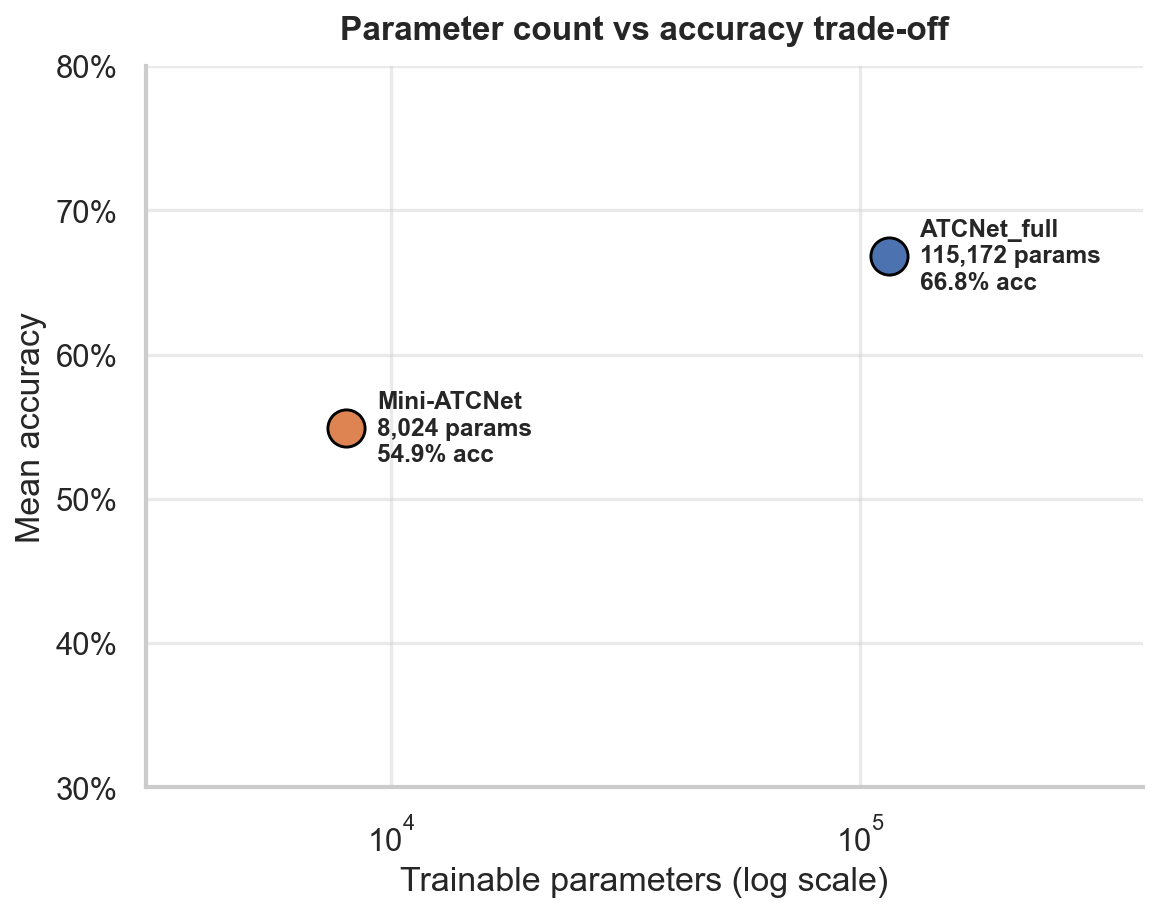
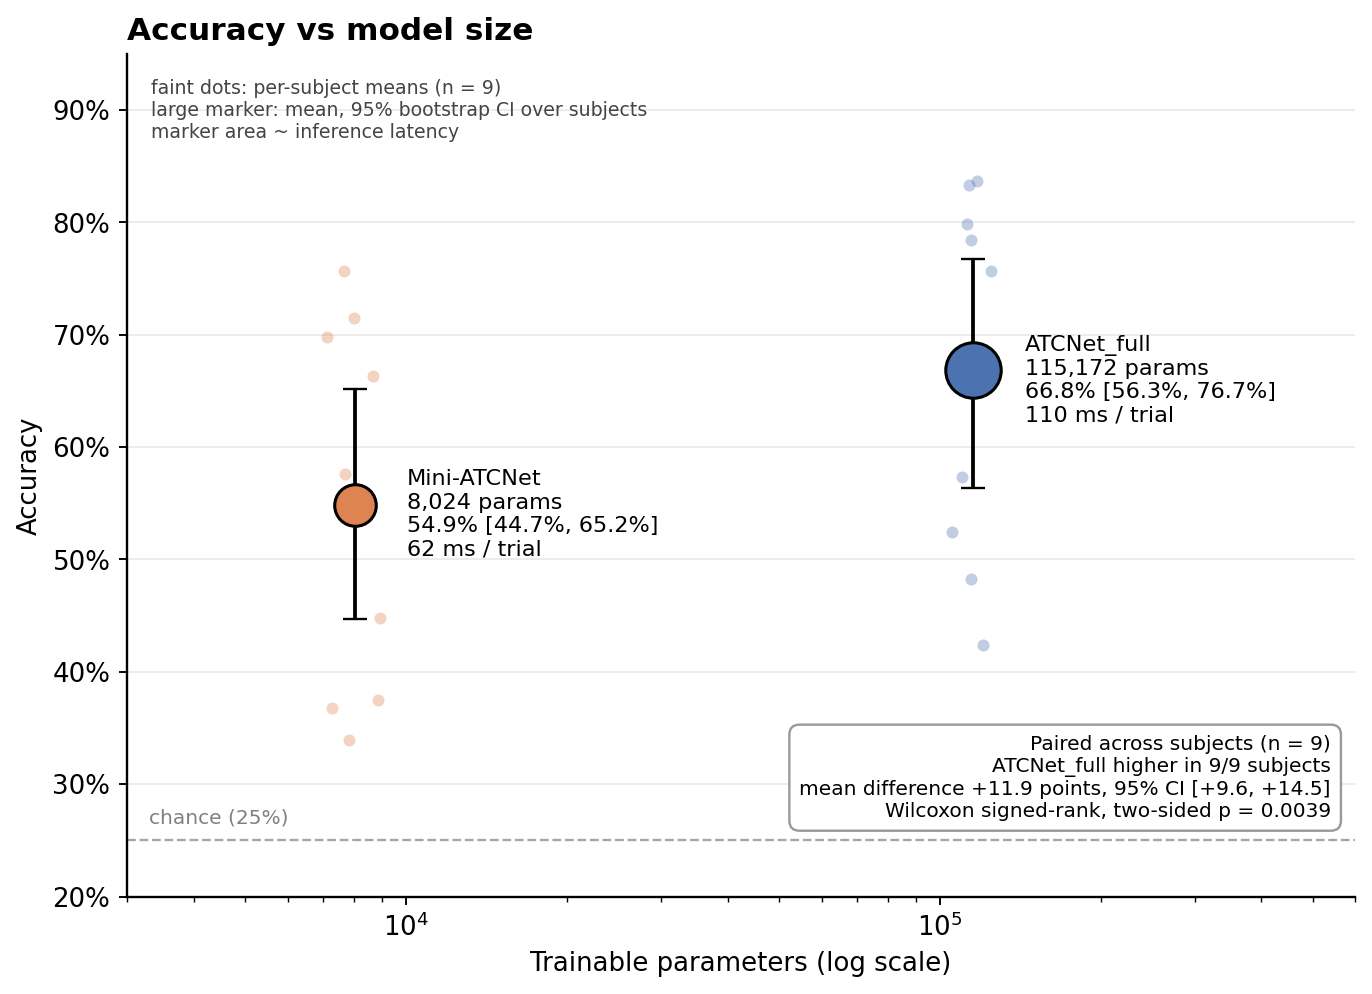
README: protocol versions, statistics, updated Figure 4

diff --git a/README.md b/README.md
@@ -90,9 +90,10 @@ dependent on a separate compression algorithm's own behavior.
 All experiments use the BCI Competition IV-2a dataset (Tangermann et al., 2012), comprising EEG
 recordings from nine subjects performing four classes of motor imagery: left hand, right hand,
 foot, and tongue. Each subject contributed 288 trials in the labeled training session, recorded from
-22 EEG channels at 250 Hz. Only the labeled session ("T") is used, since the evaluation session
-("E") in this dataset does not carry ground-truth labels usable for the subject-dependent protocol
-adopted here.
+22 EEG channels at 250 Hz. Only the labeled session ("T") is used. The GDF files of the evaluation
+session ("E") do not contain labels; the organizers released the true labels separately as a
+`true_labels` archive, which this study does not use because it evaluates within the training
+session only.
 
 ### 3.2 Preprocessing and Epoching
 
@@ -169,6 +170,16 @@ monitors validation loss rather than validation accuracy, since a model that col
 a single class for every trial produces a flat validation accuracy curve that would otherwise be
 misread by early stopping as convergence.
 
+**Protocol versions.** All results in Section 4 come from the first protocol version (v1), run on
+Kaggle. In v1 the inner 85/15 split was an unstratified random permutation drawn from NumPy's global
+random number generator, and the augmentation reseeded that same generator, so the validation split
+of one fold depended on the augmentation draws of the preceding fold. Validation class composition
+was not logged. The code in `src/` implements protocol v2: every fold derives independent random
+generators from the triple (seed, subject, fold), the inner split is stratified by class,
+TensorFlow is seeded per fold, and each fold's result records the validation class counts and trial
+indices. Protocol v2 results will differ slightly and have not yet been produced, so every number
+reported here should be read as protocol v1 with a single seed.
+
 ### 3.6 Evaluation Metrics
 
 For each of the forty-five subject-fold runs per configuration, the following are recorded: overall
@@ -177,6 +188,12 @@ time per trial, the number of epochs actually run, and whether the fold's predic
 single dominant class (defined as more than 90 percent of predictions falling into one class).
 Results are aggregated as the mean and standard deviation across all forty-five runs per
 configuration, and separately broken down per subject and per class.
+
+To quantify the consistency of the accuracy gap, each subject's accuracy is averaged over its five
+folds and the two configurations are compared with a paired, two-sided Wilcoxon signed-rank test
+across subjects, together with a bootstrap 95 percent confidence interval of the mean paired
+difference (20,000 resamples of subjects). The five folds of a subject share training data and are
+therefore not treated as independent observations.
 
 ## 4. Results
 
@@ -192,6 +209,8 @@ configuration, and separately broken down per subject and per class.
 | Mean inference time per trial | 110.2ms (SD 4.9ms) | 62.0ms (SD 3.8ms) |
 | Accuracy points per million parameters | 5.8 | 68.4 |
 | Mode-collapsed folds | 0 of 45 | 0 of 45 |
+
+*All values are from protocol v1 with a single seed (Section 3.5).*
 
 ![Accuracy, training speed, and inference speed comparison](results/atcnet_vs_mini_comparison.png)
 
@@ -228,17 +247,29 @@ were already the most difficult for the full model, rather than degrading all cl
 
 ### 4.3 Accuracy-Efficiency Trade-off
 
-![Parameter count vs accuracy trade-off](results/atcnet_vs_mini_efficiency.png)
+![Accuracy against model size](results/atcnet_vs_mini_efficiency.png)
 
-*Figure 4. Mean accuracy against trainable parameter count (logarithmic scale).*
+*Figure 4. Accuracy against trainable parameter count (logarithmic scale). Faint dots are per-subject
+means (n = 9), large markers are group means with 95 percent bootstrap confidence intervals over
+subjects, and marker area is proportional to inference latency. The inset reports the paired
+comparison across subjects. Results are from protocol v1 with a single seed.*
 
-Expressed as a single trade-off statement: Mini-ATCNet gives up 11.9 percentage points of mean
-accuracy relative to ATCNet_full in exchange for a 93 percent reduction in parameter count, a 44
-percent reduction in training time per fold, and a 44 percent reduction in inference time per trial.
-Normalized by parameter count, Mini-ATCNet delivers approximately twelve times more accuracy per
-million parameters than ATCNet_full (68.4 versus 5.8 accuracy points per million parameters), which
-is the relevant comparison when the binding deployment constraint is model size or memory footprint
-rather than absolute accuracy.
+Mini-ATCNet gives up 11.9 percentage points of mean accuracy relative to ATCNet_full (95 percent
+bootstrap CI of the paired difference [+9.6, +14.5]) in exchange for a 93 percent reduction in
+parameter count, a 44 percent reduction in training time per fold, and a 44 percent reduction in
+inference time per trial. ATCNet_full was more accurate for all nine subjects (Wilcoxon signed-rank
+test, two-sided p = 0.0039, the smallest value attainable with nine subjects). The confidence
+intervals of the two group means overlap in the figure because accuracy varies widely between
+subjects. The paired comparison removes this between-subject variation by comparing each subject
+with themselves, which is why the interval of the difference excludes zero.
+
+These statistics describe how consistent the direction of the gap is across subjects. They do not
+establish the size of the effect beyond this dataset: there are only nine subjects, the five folds of
+a subject share training data and were not treated as independent, and each configuration was
+trained with a single seed. Normalized by parameter count, Mini-ATCNet delivers approximately twelve
+times more accuracy per million parameters than ATCNet_full (68.4 versus 5.8 accuracy points per
+million parameters), which is the relevant comparison when the binding deployment constraint is
+model size or memory footprint rather than absolute accuracy.
 
 ## 5. Discussion
 
@@ -253,9 +284,10 @@ may be entirely justified.
 
 It is also worth noting that the 66.8 percent mean accuracy obtained for ATCNet_full in this study
 is not directly comparable to the 81.10 percent reported in the original ATCNet publication, since
-the two figures are produced under different evaluation protocols. The original work evaluates on a
-held-out session using the dataset's own train/test session split, whereas this study evaluates
-using subject-dependent five-fold cross-validation within a single session. The absolute accuracy
+the two figures are produced under different evaluation protocols. The official repository reports
+its figure for training on the first session and testing on the second session of each subject,
+whereas this study evaluates using subject-dependent five-fold cross-validation within a single
+session. The absolute accuracy
 figures reported here should therefore be read as an internally consistent comparison between the
 two configurations under one protocol, not as a reproduction of ATCNet's original reported result.
 
@@ -274,6 +306,11 @@ two configurations under one protocol, not as a reproduction of ATCNet's origina
   constraint values were applied to both ATCNet_full and Mini-ATCNet. Given the large difference in
   parameter count between the two, this regularization strength may be well suited to the larger
   model while being unnecessarily restrictive for the smaller one.
+- **A single random seed and the first protocol version.** Each configuration was trained once per
+  fold, so variability due to weight initialization is not measured, and the confidence intervals
+  above reflect variation across subjects only. The reported run also used protocol v1, whose
+  validation split was coupled across folds, unstratified, and not logged (Section 3.5). Rerunning
+  under protocol v2 with several seeds will change the numbers slightly.
 - **No architecture-level comparison against the original ATCNet protocol.** As discussed in
   Section 5, the accuracy figures reported here are not directly comparable to the original ATCNet
   publication's reported accuracy, since the evaluation protocols differ.
@@ -324,7 +361,7 @@ bci-atcnet-vs-mini-atcnet/
 │   ├── model.py         (ATCNet architecture blocks, build_atcnet, LRWarmup callback)
 │   └── train.py          (subject dependent five fold CV training loop and CLI entrypoint)
 └── results/
-    ├── generate_plots.py                     (regenerates the figures above from the notebook's own recorded output)
+    ├── generate_plots.py                     (regenerates the earlier figure set from the notebook's recorded output; Figure 4 in its current form is not produced by this script)
     ├── atcnet_vs_mini_comparison.png
     ├── atcnet_vs_mini_per_subject.png
     ├── atcnet_vs_mini_efficiency.png
@@ -341,12 +378,14 @@ contains the same training logic split into importable modules, runnable directl
 ```bash
 pip install -r requirements.txt
 
-python -m src.train --subject 1 --config Mini-ATCNet --save_dir_root ./saved_models
-python -m src.train --subject 1 --config ATCNet_full --save_dir_root ./saved_models
+python -m src.train --subject 1 --config Mini-ATCNet --data_dir /path/to/BCICIV_2a_gdf --save_dir_root ./saved_models
+python -m src.train --subject 1 --config ATCNet_full --data_dir /path/to/BCICIV_2a_gdf --save_dir_root ./saved_models
 ```
 
-Set `DATA_DIR` in `src/config.py` (or pass `data_dir=` to `load_subject_epochs`) to point at a
-local copy of the dataset instead of the Kaggle mount path.
+The `--data_dir` flag points at a local copy of the dataset instead of the Kaggle mount path used as
+the default in `src/config.py`. Each run writes one JSON file per subject; every fold entry records
+the test predictions, timing, the protocol version, and the validation size, class counts, and trial
+indices of that fold.
 
 ### Dataset
 
@@ -358,8 +397,11 @@ Not redistributed here due to size and licensing.
 The BCI Competition IV-2a dataset was made available by its original organizers and contributors
 (Tangermann et al., 2012). The ATCNet architecture and its official implementation, which this
 project reimplements and extends with a lightweight variant, are due to Altaheri, Muhammad, and
-Alsulaiman (2023). All model training in this project was performed on Kaggle's freely provided
-Tesla T4 GPU infrastructure.
+Alsulaiman (2023). The official ATCNet implementation is released under the Apache License 2.0;
+`src/model.py` is a reimplementation based on that code and credits its authors. Thanks also to an
+external reviewer who, in a GitHub comment, pointed out the random number generator coupling between
+the validation split and the augmentation, which led to protocol v2. All model training in this
+project was performed on Kaggle's freely provided Tesla T4 GPU infrastructure.
 
 ## References
 
